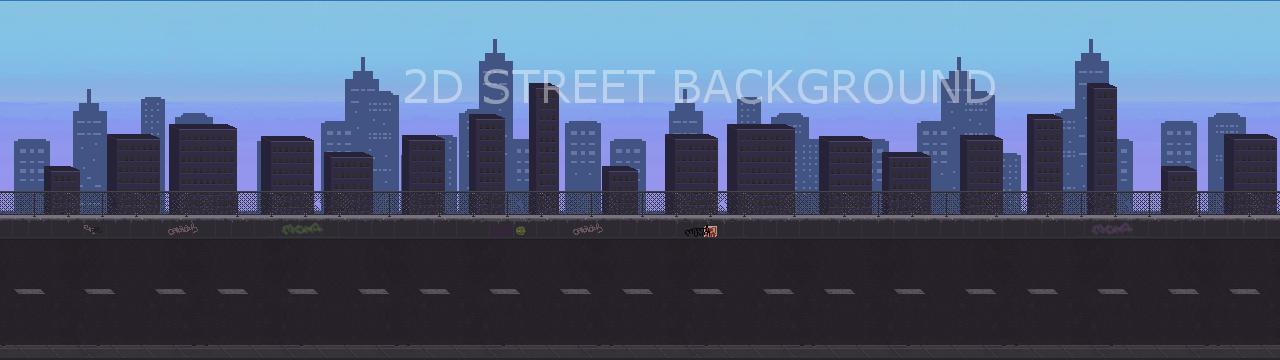
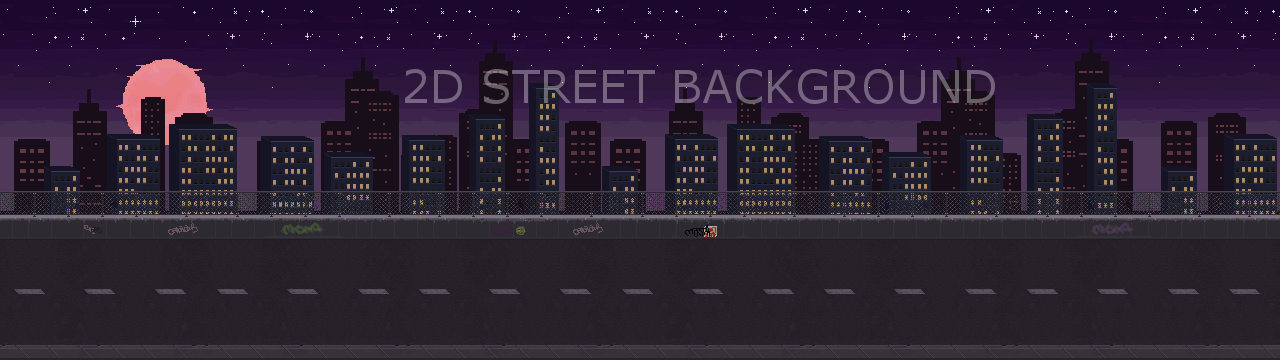
couple more images and some bugfixing

diff --git a/Css/style.css b/Css/style.css
@@ -8,8 +8,8 @@ body {
 }
 
 #game {
-    width: 500px;
-    height: 200px;
+    width: 1000px;
+    height: 400px;
     border: none;
     position: relative;
     background-size: cover;
@@ -19,22 +19,22 @@ body {
 }
 
 #character {
-    width: 70px;
-    height: 50px;
+    width: 140px;
+    height: 100px;
     background-image: url('../Assets/Characters/NonDescriptMonster.png');
     background-size: cover;
     background-repeat: no-repeat;
     background-position: center;
     position: absolute;
-    top: 150px;
+    top: 300px;
 }
 
 #hitbox {
     position: absolute;
-    width: 24px;
-    height: 34px;
-    left: 25px;
-    top: 13px;
+    width: 46px;
+    height: 64px;
+    left: 45%;
+    top: 26px;
     visibility: hidden;
     pointer-events: none;
 }
@@ -42,45 +42,77 @@ body {
 /* Classes with keyframes */
 
 #block {
-    width: 40px;
-    height: 40px;
+    width: 80px;
+    height: 80px;
     background-size: contain;
     background-repeat: no-repeat;
     background-position: center;
     position: absolute;
     bottom: 0px;
-    left: 480px;
-    animation: slide 1s infinite;
+    left: 1000px;
+    animation: slide 1.5s linear infinite;
 }
 
 @keyframes slide {
     0% {
-        left: 480px;
+        left: 1000px;
     }
 
     100% {
-        left: -40px;
+        left: -100px;
     }
 }
 
 .animate {
-    animation: jump 500ms;
+    animation: jump 900ms linear;
 }
 
 @keyframes jump {
     0% {
-        top: 150px;
+        top: 300px;
     }
 
-    30% {
+    /* Takeoff */
+    10% {
+        top: 260px;
+    }
+
+    25% {
+        top: 165px;
+    }
+
+    40% {
         top: 100px;
     }
 
+    /* Apex */
+    50% {
+        top: 75px;
+    }
+
+    60% {
+        top: 85px;
+    }
+
+    /* Falling */
     70% {
-        top: 100px;
+        top: 115px;
     }
 
+    80% {
+        top: 160px;
+    }
+
+    90% {
+        top: 220px;
+    }
+
+    96% {
+        top: 270px;
+    }
+
+    /* Landing */
     100% {
-        top: 150px;
+        top: 300px;
     }
 }

diff --git a/Js/script.js b/Js/script.js
@@ -32,7 +32,7 @@ function cycleBackgrounds() {
 
 const updateBackground = cycleBackgrounds();
 setBackground(0);
-setInterval(updateBackground, 60000);
+setInterval(updateBackground, 30000);
 
 function randomObstacleSprite() {
     const randomIndex = Math.floor(Math.random() * obstacleSprites.length);
@@ -43,11 +43,11 @@ function randomObstacleSprite() {
     block.style.backgroundRepeat = 'no-repeat';
     block.style.backgroundPosition = 'center';
 }
-/*
+
 block.addEventListener('animationiteration', function () {
     randomObstacleSprite();
 });
-*/
+
 const jump = function () {
     if (!character.classList.contains('animate')) {
         character.classList.add('animate');
